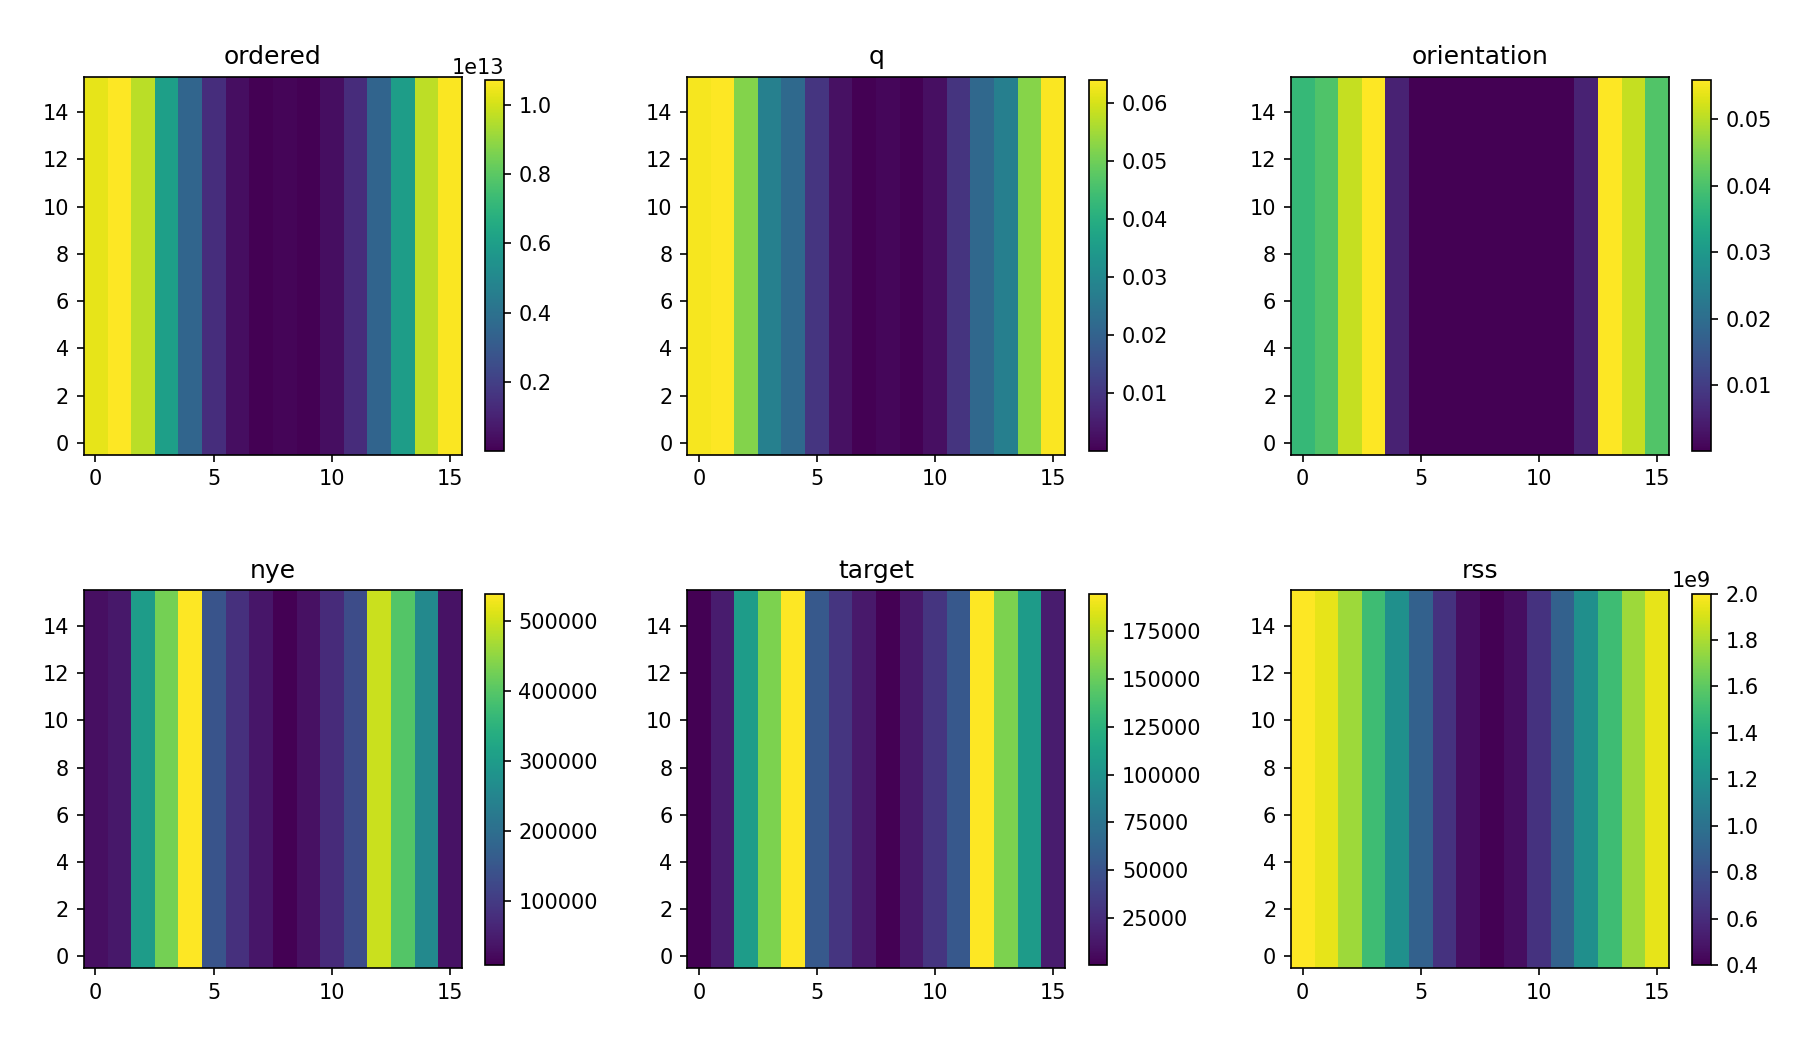
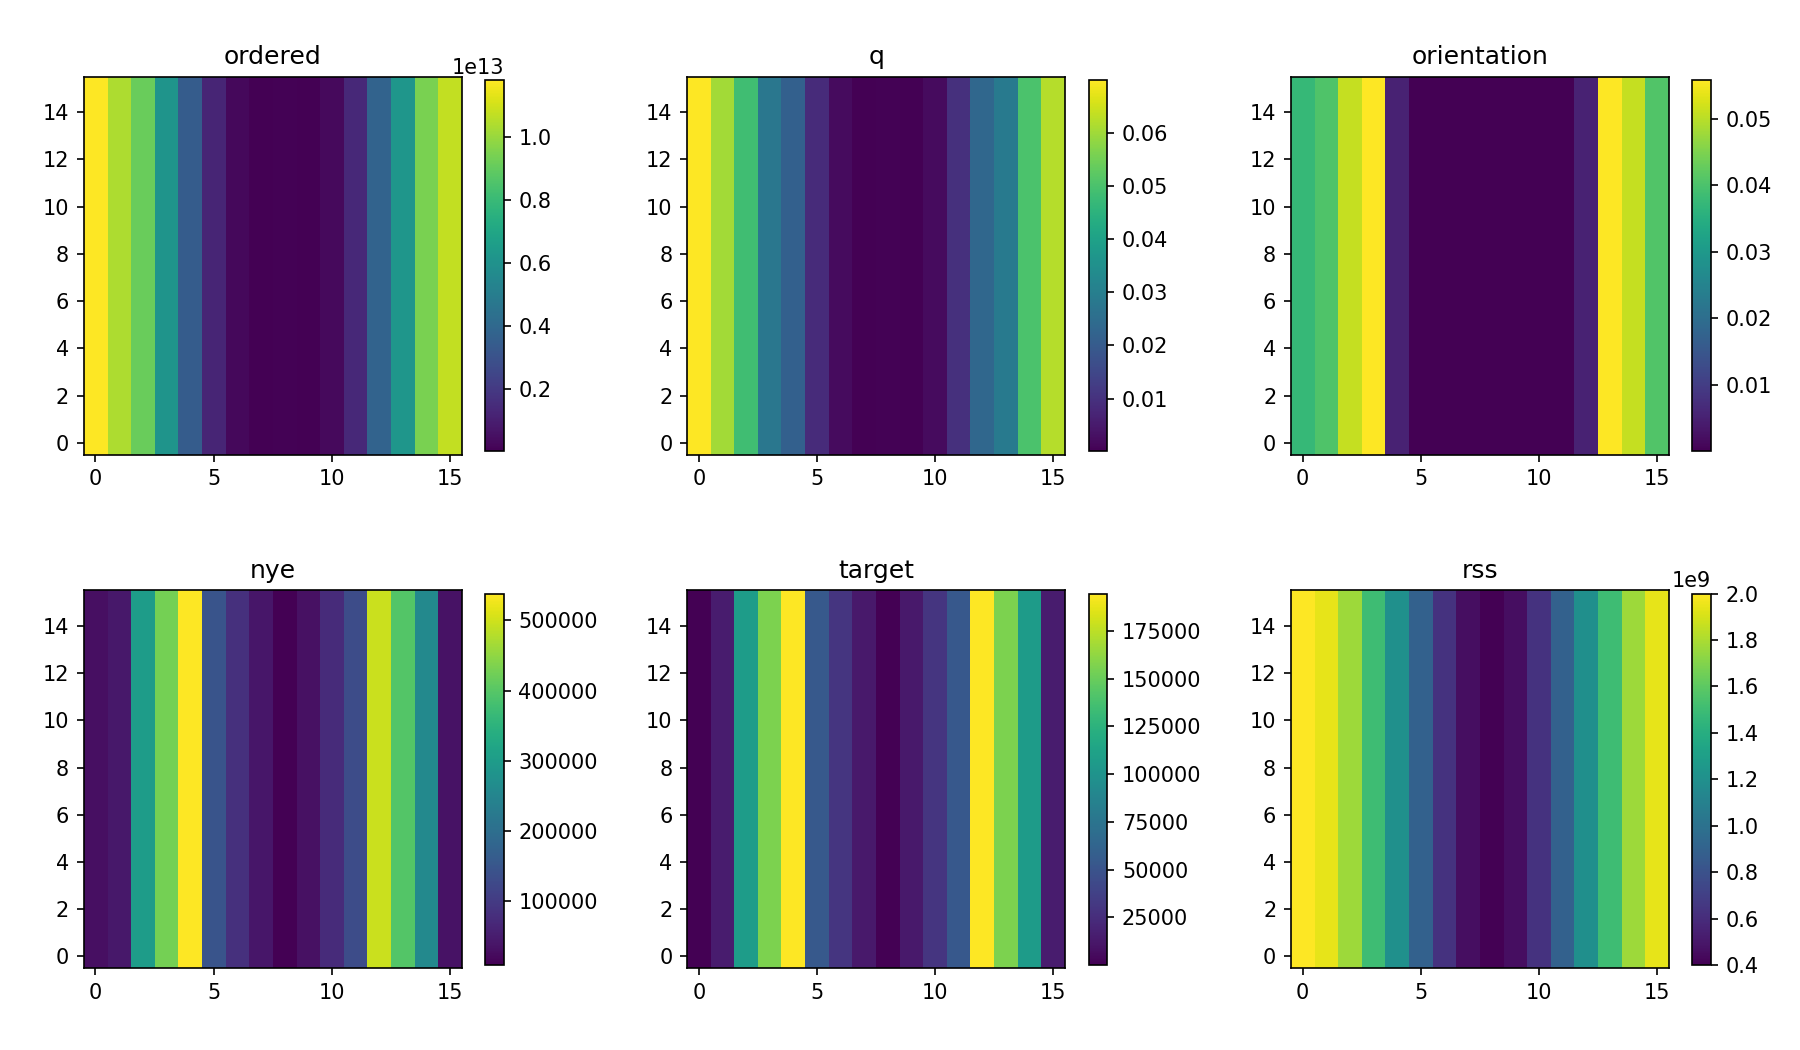
Correct V23 tangle reservoir ownership

diff --git a/full_model/production/common_tensorial_wall.py b/full_model/production/common_tensorial_wall.py
@@ -123,6 +123,7 @@ class CommonWallParameters:
     wall_density_width_ratio: float = 0.3
     wall_order_gradient_J_m: float = 2.0e-7
     wall_order_enabled: bool = True
+    extensive_wall_partition_enabled: bool = False
     attempt_frequency_s: float = 1.0e7
     critical_stress_Pa: float = 1.5e9
     exp_a: float = 2.2
@@ -576,11 +577,18 @@ def wall_residual(state: CommonWallState, driving: CommonWallDriving,
                     -chemical["forest_mu_J_m"][..., None])
     delta_wall_m = (chemical["wall_minus_mu_J_m"]
                     -chemical["forest_mu_J_m"][..., None])
+    wall_target_plus = state.wall_plus_m2
+    wall_target_minus = state.wall_minus_m2
+    if parameters.extensive_wall_partition_enabled:
+        # In V23 wall_order is a derived ordered/total fraction, not a state.
+        # Capture/release acts only on the disordered (tangle) complement.
+        wall_target_plus = wall_target_plus*(1.0-state.wall_order[..., None])
+        wall_target_minus = wall_target_minus*(1.0-state.wall_order[..., None])
     transfer_p, transfer_p_turnover = _biased_exchange_components(
-        state.forest_plus_m2, state.wall_plus_m2,
+        state.forest_plus_m2, wall_target_plus,
         delta_wall_p, k_wall, parameters)
     transfer_m, transfer_m_turnover = _biased_exchange_components(
-        state.forest_minus_m2, state.wall_minus_m2,
+        state.forest_minus_m2, wall_target_minus,
         delta_wall_m, k_wall, parameters)
     fp_rate -= transfer_p; fm_rate -= transfer_m
     wp_rate += transfer_p; wm_rate += transfer_m
@@ -817,10 +825,14 @@ def accepted_euler_step(state, driving, systems, topologies, parameters, dt_s):
         "forest_minus_m2", "wall_plus_m2", "wall_minus_m2", "junction_m2")
     for name in nonnegative:
         value = np.asarray(getattr(state, name)); derivative = np.asarray(getattr(rate, name))
+        donor = value
+        if (parameters.extensive_wall_partition_enabled
+                and name in ("wall_plus_m2", "wall_minus_m2")):
+            donor = value*(1.0-state.wall_order[..., None])
         mask = derivative < 0.0
         if np.any(mask):
             scale = min(scale, float(np.min(
-                parameters.maximum_fraction_per_step*value[mask]
+                parameters.maximum_fraction_per_step*donor[mask]
                 /np.maximum(-dt_s*derivative[mask], 1e-300))))
     for name in ("wall_order", "multi_hit_coordination"):
         value = np.asarray(getattr(state, name))

diff --git a/full_model/production/v23_coupled_wall.py b/full_model/production/v23_coupled_wall.py
@@ -111,11 +111,12 @@ def make_coupled_state(common, density, topologies=()):
 def _remap_wall_split(old_tangle, old_ordered, new_total):
     old_total = old_tangle + old_ordered
     growth = new_total >= old_total
-    ratio = np.divide(new_total, old_total, out=np.zeros_like(new_total),
-                      where=old_total > 0)
     tangle = np.where(growth, old_tangle + (new_total-old_total),
-                      old_tangle*ratio)
-    ordered = np.where(growth, old_ordered, old_ordered*ratio)
+                      old_tangle-(old_total-new_total))
+    ordered = old_ordered.copy()
+    if np.min(tangle) < -1e-6:
+        raise FloatingPointError("transport removed more than the V23 tangle donor")
+    tangle = np.maximum(tangle, 0.0)
     return tangle, ordered
 
 
@@ -131,10 +132,11 @@ def accepted_coupled_step(state, driving, systems, topologies,
         wall_order_amplitude_J_m3=0.0,
         wall_absent_penalty_J_m3=1e-300,
         wall_partition_J_m=1e-300,
+        extensive_wall_partition_enabled=True,
         transport_scheme="upwind",
         mobile_correlation_diffusivity_m2_s=0.0)
     transported, transport_residual, transport_scale = accepted_euler_step(
-        replace(state.common, wall_order=np.zeros_like(state.common.wall_order)),
+        state.common,
         driving, systems, topologies, transport_parameters, dt_s)
     density_updates = {
         "mobile_plus_m2": transported.mobile_plus_m2,

diff --git a/full_model/docs/v23_extensive_density_and_wall.md b/full_model/docs/v23_extensive_density_and_wall.md
@@ -101,7 +101,10 @@ The V23 coupled map disables the scalar-q energy, advances signed transport,
 slip, plastic distortion, Nye, orientation, and heat through the common
 operator, remaps wall capture/removal without changing total line, and then
 advances the extensive tangle/ordered exchange. New captured wall line enters
-the tangle reservoir; removal acts proportionally on the existing split.
+the tangle reservoir; release draws only from tangle line. Taylor resistance
+still sees total tangle plus ordered wall line. This ownership matters: the
+first coupled version incorrectly let capture see total wall content, so
+ordering did not expose a depleted tangle pool for replenishment.
 
 A conservative periodic upwind transport option was required for this map.
 The inherited spectral flux produced negative undershoots under heterogeneous

diff --git a/campaign_status.md b/campaign_status.md
@@ -1179,5 +1179,10 @@ The generic campaign may proceed without selecting Fe, Cr, or another materials 
   inventory, polarization, Frank--Bilby mismatch, and orientation criteria.
   Decision: `UNSEEDED_EXTENSIVE_ORDERING_PRESENT_NO_PHYSICAL_WALL`; fixture
   true, scientific gate false, HPC wall campaign not authorized.
+- A subsequent reservoir-ownership audit corrected capture/release to act on
+  tangle wall line only while Taylor resistance continues to use total wall
+  line. The corrected local bracket still produces no physical wall; the
+  failure is now an explicit Frank--Bilby line-supply deficit rather than a
+  hidden failure to refill the tangle reservoir.
 - The canonical suite passes 408 tests. No phase or grain label exists in the
   V23 wall state, and multi-hit remains disabled.
